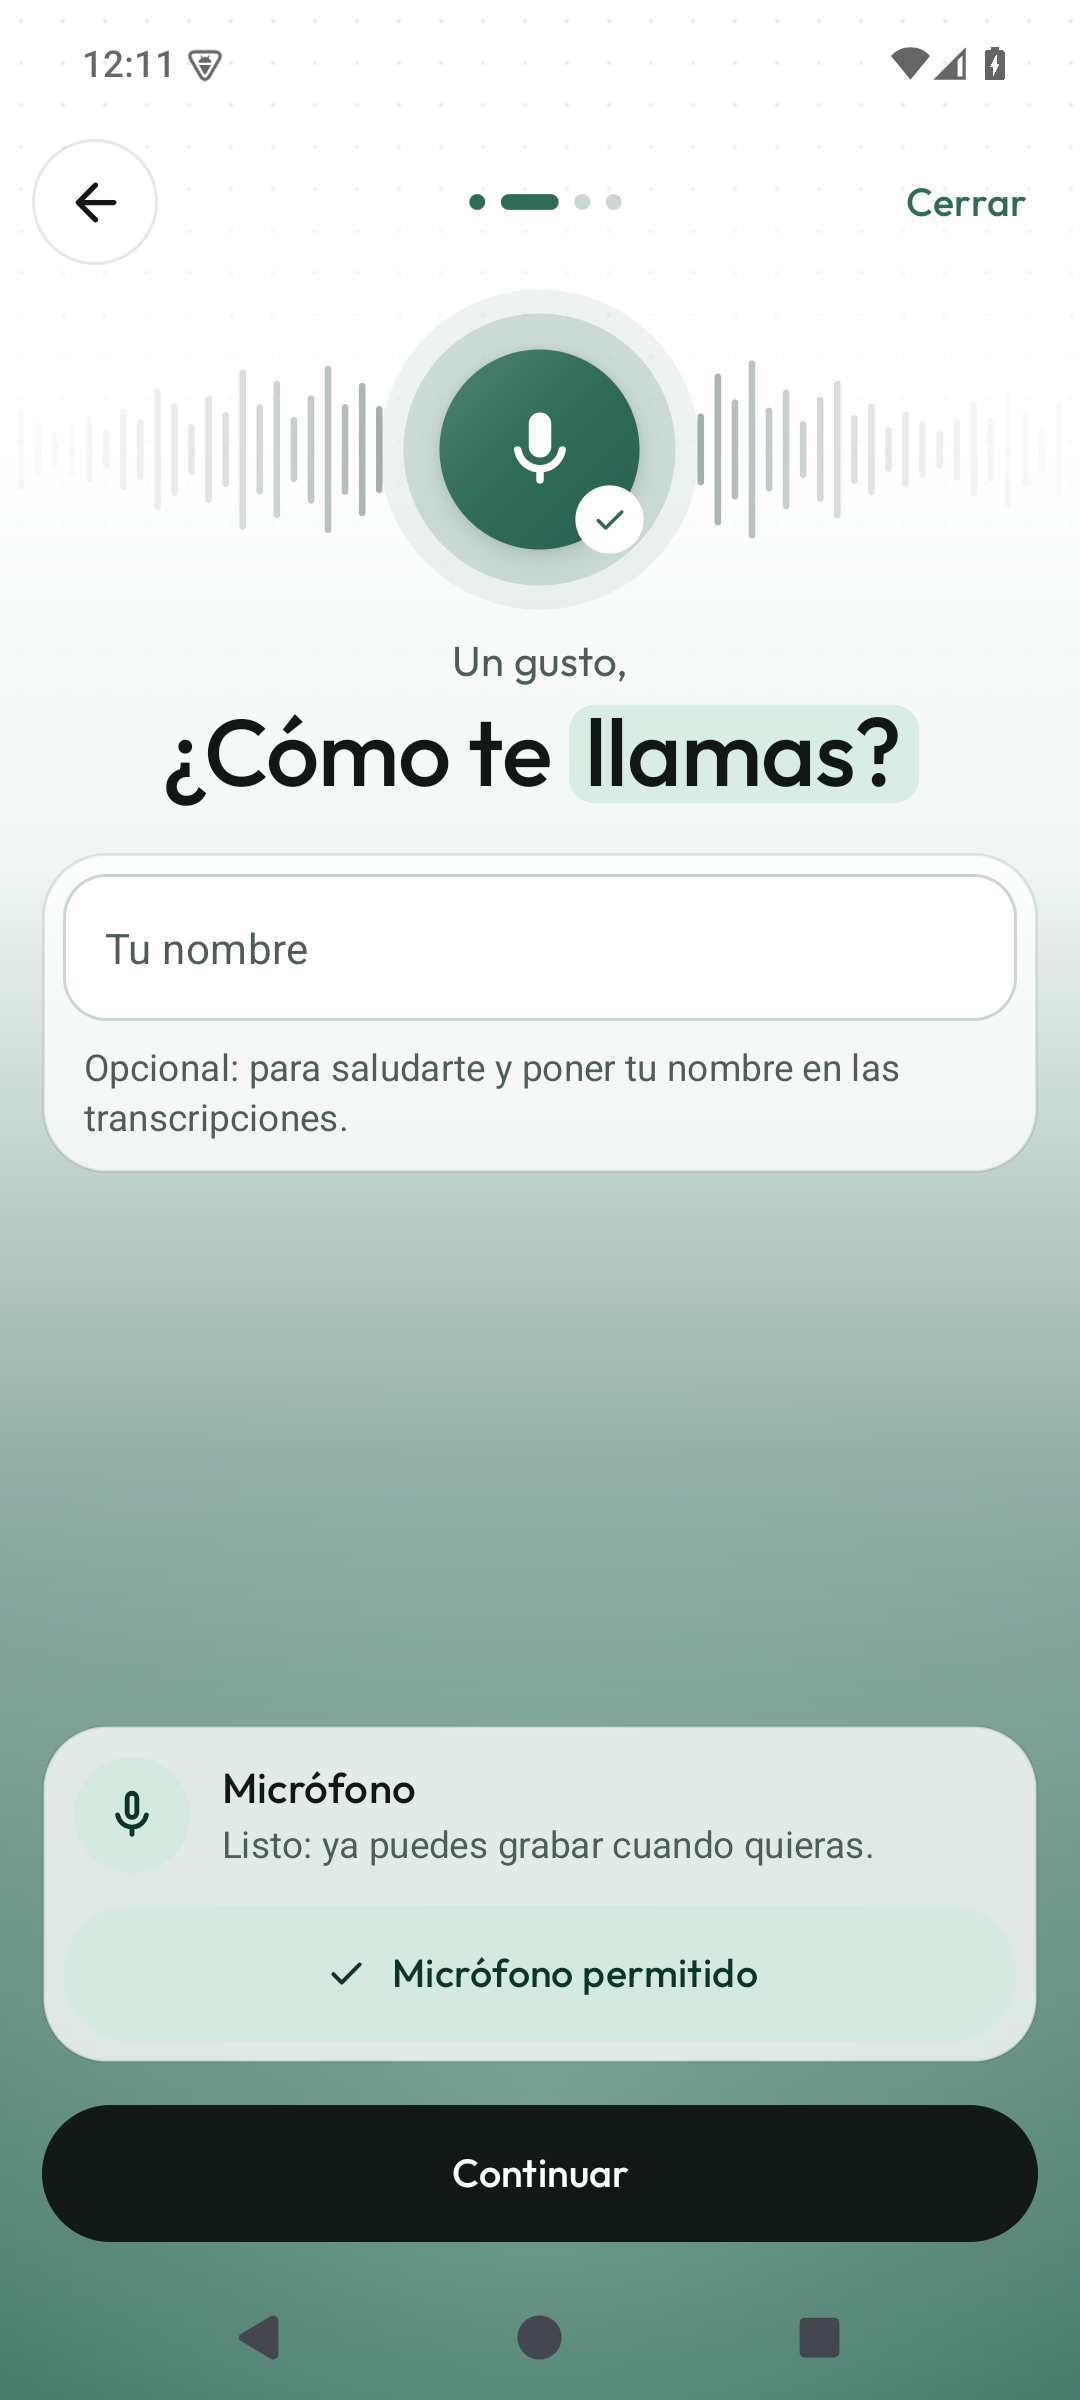
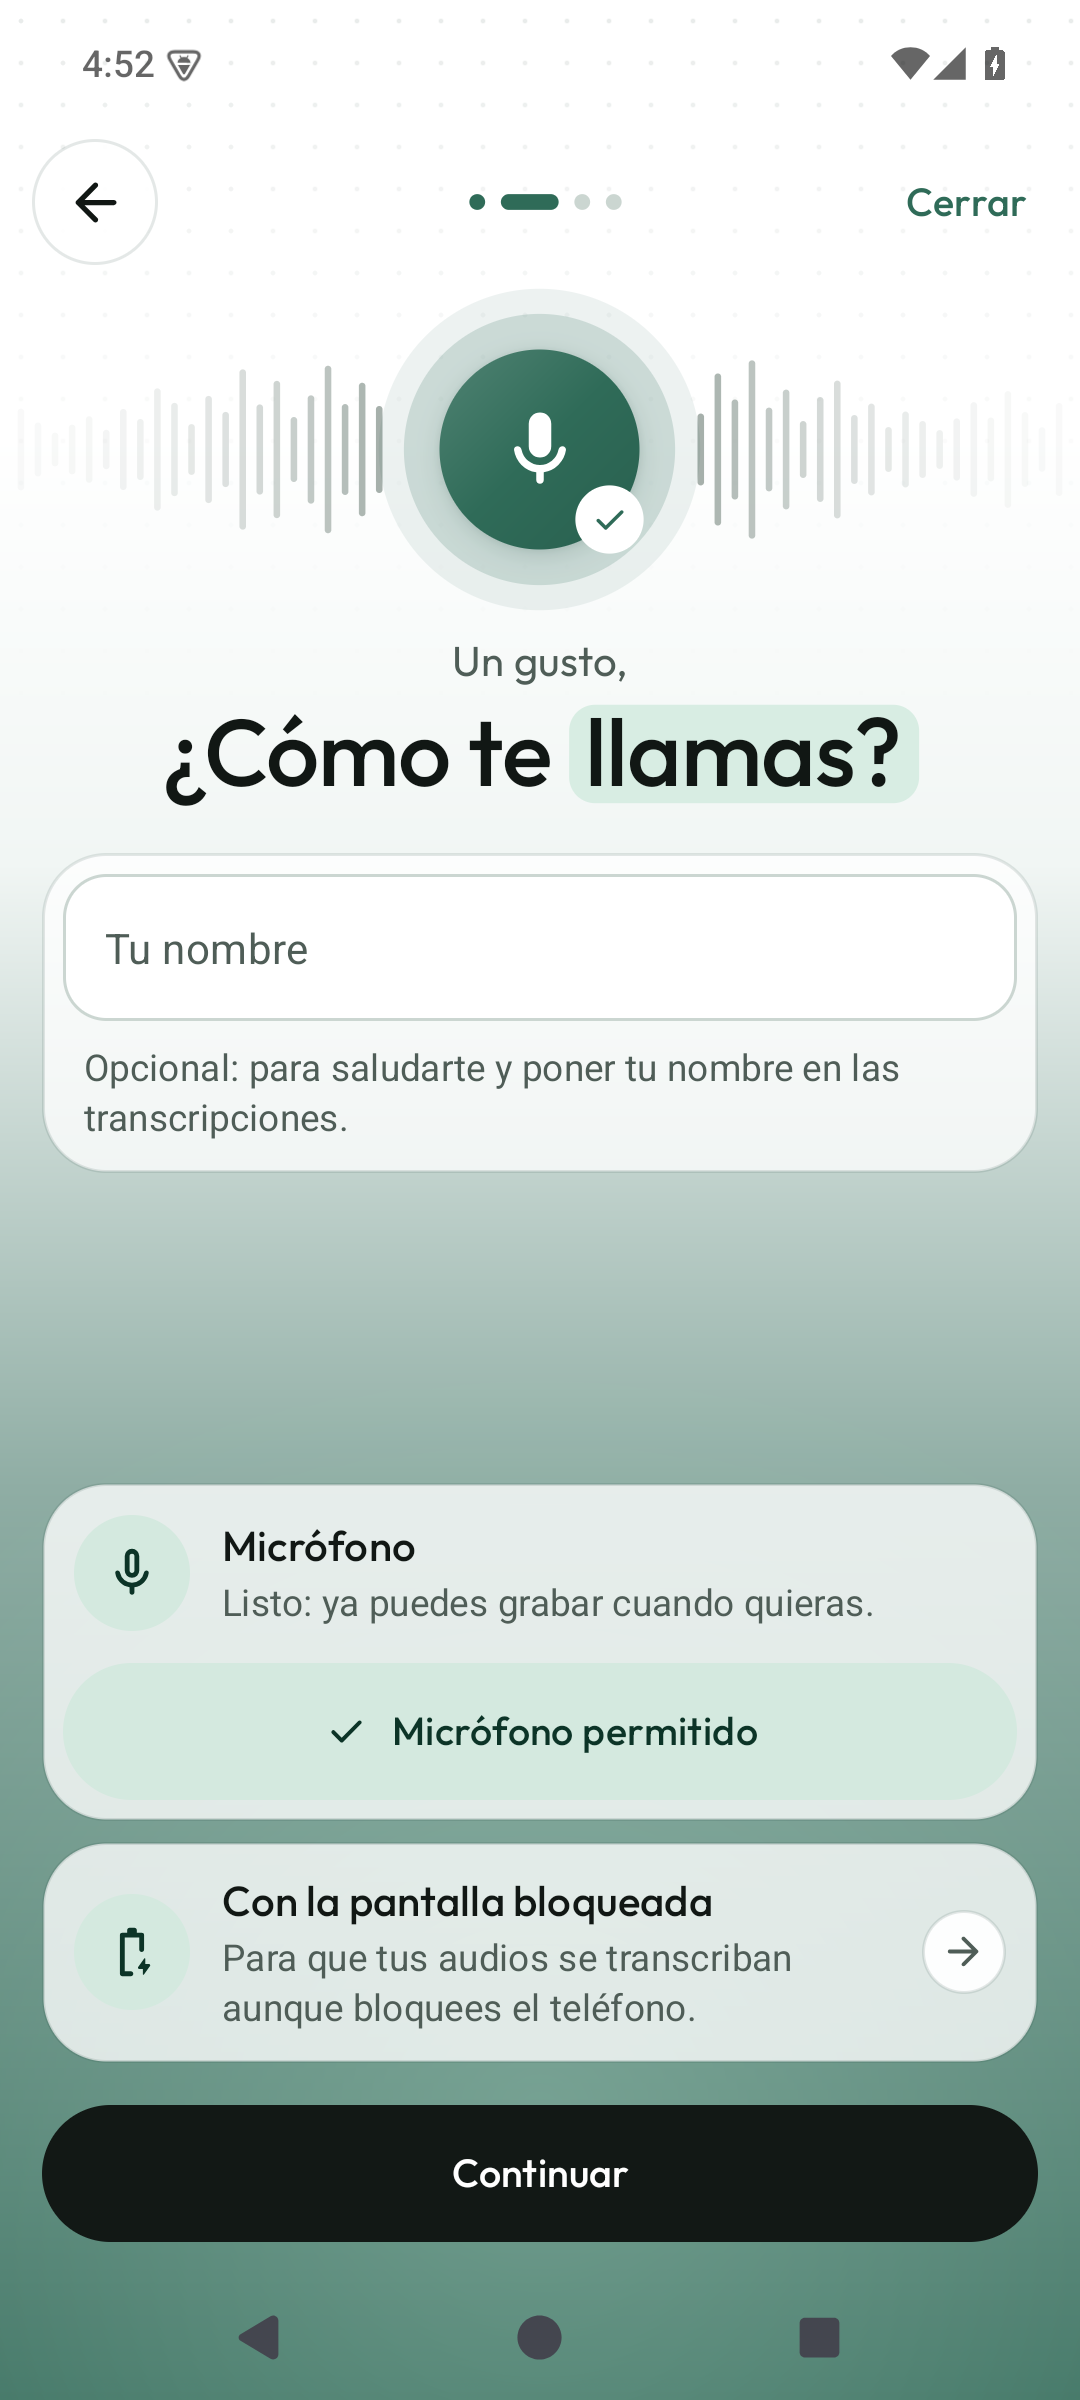
0.8.0: capturas de la bienvenida sin batería permitida, Ajustes solo con OpenRouter y Tus métricas

Changed region(s): [[0.0306, 0.5938, 0.9778, 0.8438], [0.0611, 0.0, 0.2139, 0.0312]]

diff --git a/docs/diseno/CRITERIOS.md b/docs/diseno/CRITERIOS.md
@@ -225,6 +225,8 @@ Los números que cambian usan **cifras de ancho fijo** (`Ui.tabular`, «tnum» d
 - **(0.8.0) Ayuda y soporte** suma «Ver la bienvenida».
 
 ### Bienvenida (0.8.0)
+<img src="capturas/0.8-01-bienvenida.png" width="200"> <img src="capturas/0.8-02-nombre-microfono.png" width="200"> <img src="capturas/0.8-03-conecta-tu-ia.png" width="200"> <img src="capturas/0.8-04-todo-listo.png" width="200">
+
 - Solo en la primera instalación (`welcomed=false`); quien actualiza ve «Novedades». Se repite desde Ajustes → Ayuda y soporte, sin tocar claves ni ajustes guardados.
 - Pantalla completa sobre el fondo intenso, sin barra de pestañas. Marco fijo: ← (desde el paso 2), puntos de avance y «Saltar» arriba; un solo botón de tinta abajo, que no cambia de lugar.
 - Cuatro pasos cortos: Bienvenida (tres beneficios en vidrio) → Tú (nombre opcional, permiso de micrófono y «Con la pantalla bloqueada») → Conecta tu IA (solo OpenRouter; campo oculto con «Pegar»; «Ahora no, solo grabar») → Listo (estado de la clave, «Grabar mi voz», «Elegir mi carpeta 0-Inbox»).
@@ -232,6 +234,8 @@ Los números que cambian usan **cifras de ancho fijo** (`Ui.tabular`, «tnum» d
 - Nada bloquea: la clave se comprueba en segundo plano mientras ya se avanza, y el resultado queda también en Ajustes → «Comprobar conexión». La clave nunca se vuelve a mostrar ni se registra.
 
 ### Tus métricas (0.8.0)
+<img src="capturas/0.8-07-metricas.png" width="200"> <img src="capturas/0.8-08-metricas-oscuro.png" width="200"> <img src="capturas/0.8-06-ajustes-openrouter.png" width="200">
+
 - Se abre desde la tarjeta de Ajustes o desde «Tu semana» en Grabar. Desde «Tu semana» abre en «7 días», lo mismo que esa tarjeta resume; desde Ajustes, en el último período elegido.
 - Una sola fila de filtros (7 días · Este mes · Todo) manda sobre todo lo de abajo: tiempo hablado, grabaciones, palabras y notas; 8 semanas en barras (se ajustan con el gesto de TalkBack); racha y mejor racha; mapa de a qué hora grabas; con quién conversas; y gasto por modelo, con lo cobrado y lo estimado («≈») por separado.
 - Todo se calcula en el teléfono (`Metrics.compute`) y se dice: «Nada se envía». Sin grabaciones en el período, una invitación en vez de ceros.
